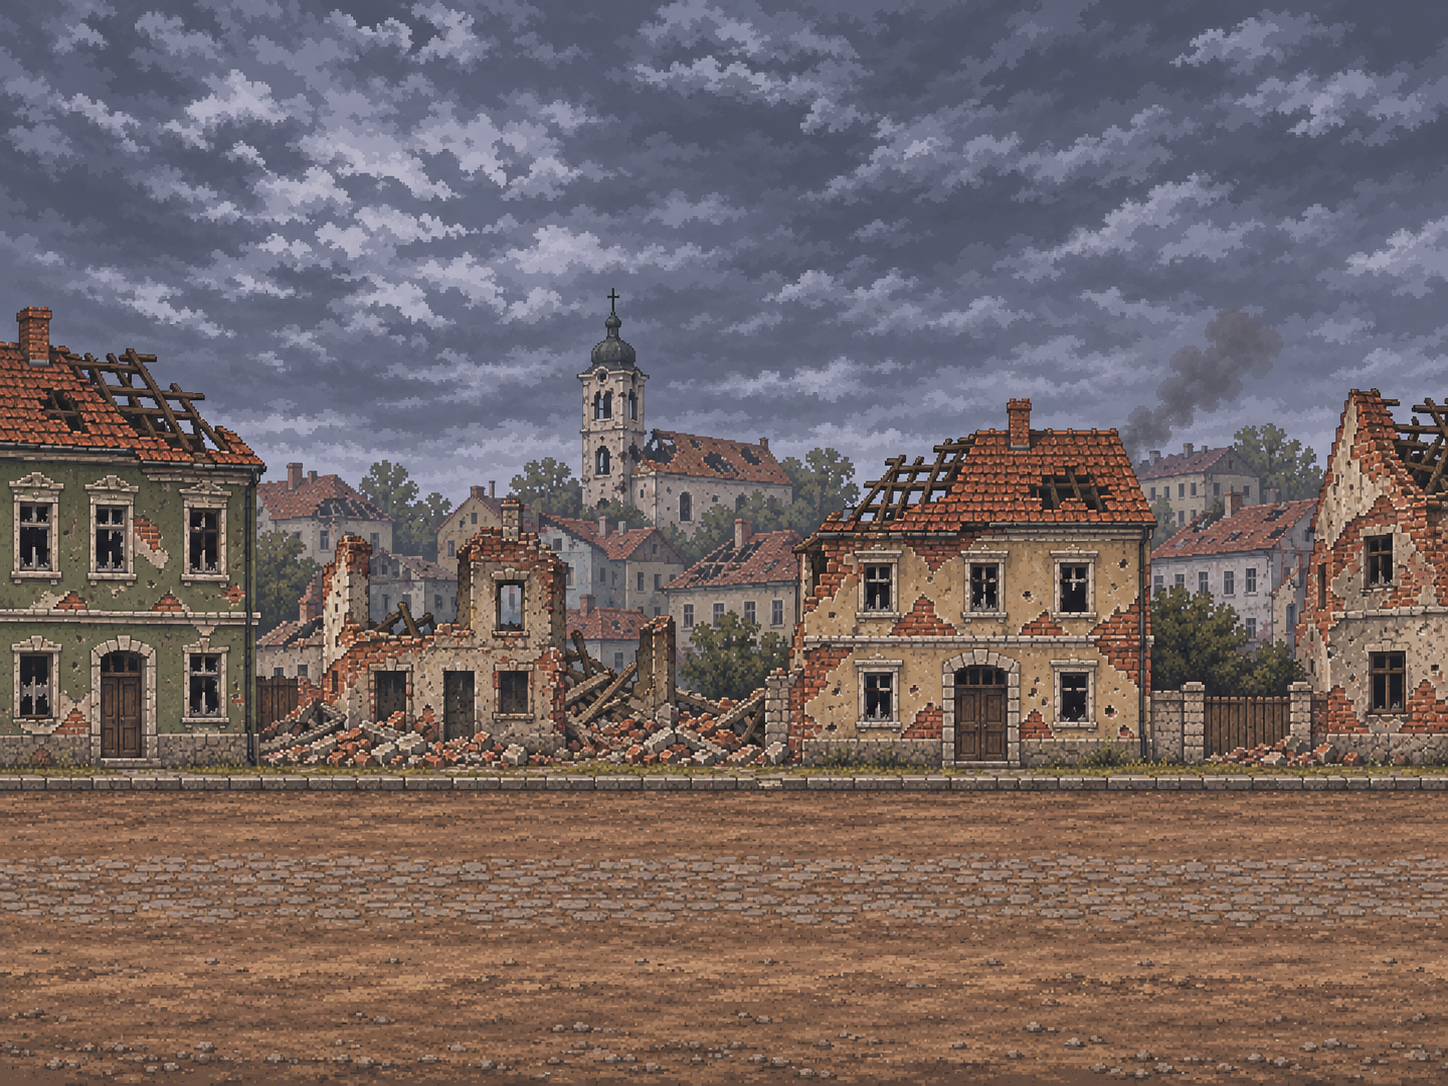
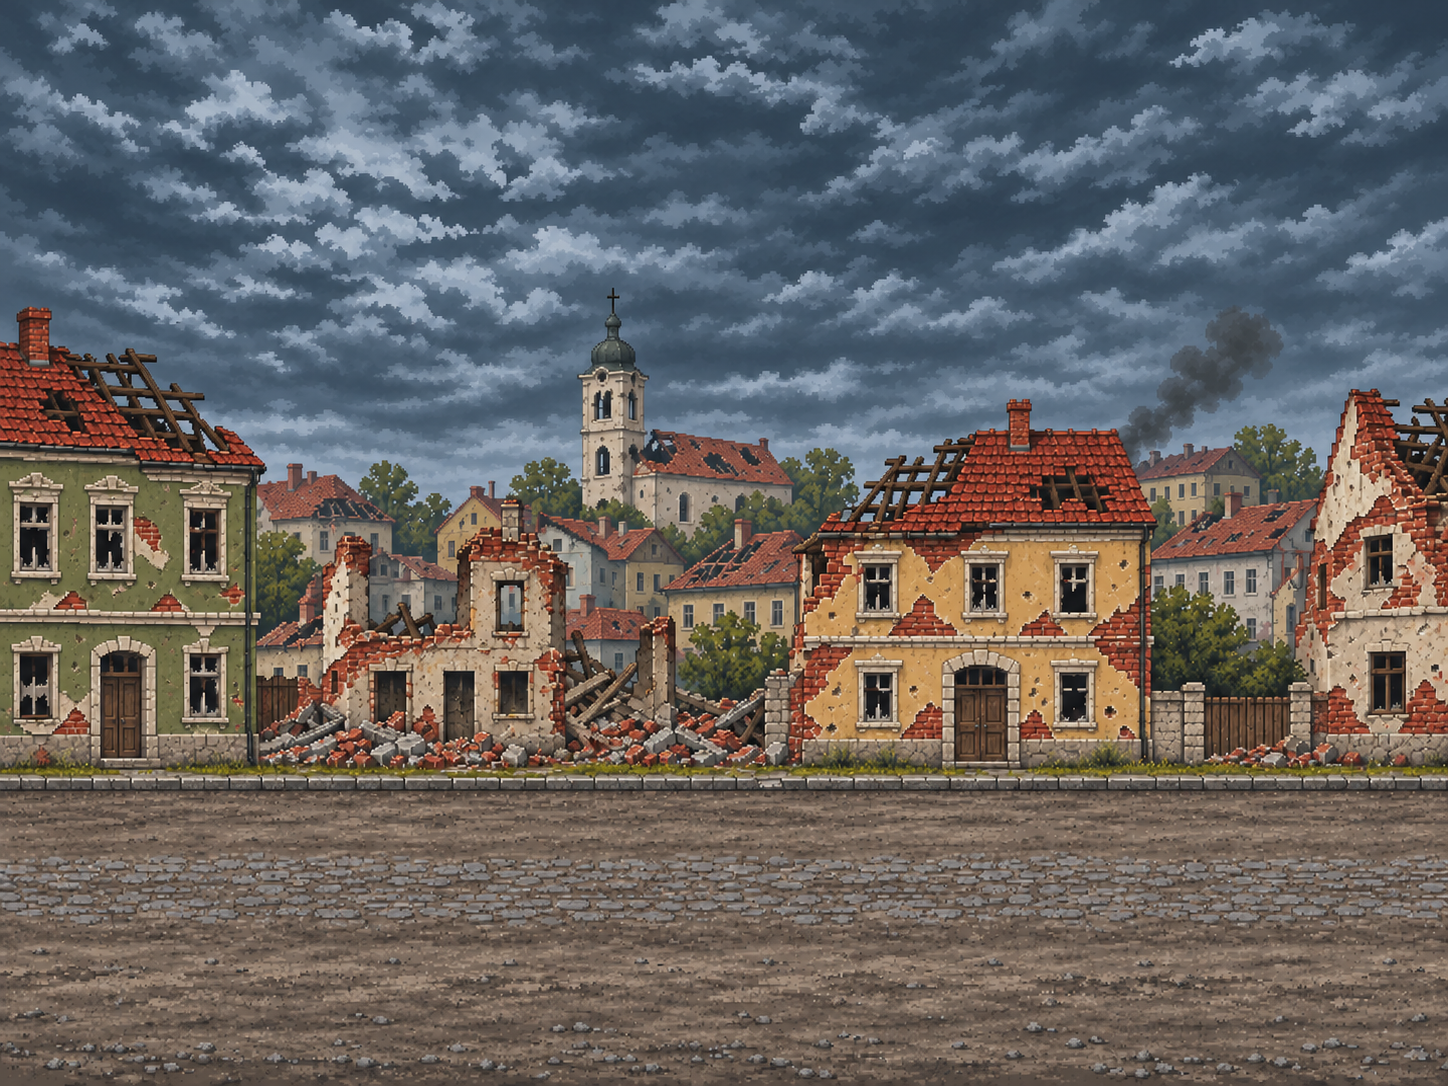
art

diff --git a/index.html b/index.html
@@ -32,12 +32,12 @@
 
         <div data-path="tenkici" class="menu-item simple-container js-start hide-on-mobile">
           <h3>Tank Duel (2P)</h3>
-          <img fetchpriority="high" alt="game screen" src="/assets/images/scenes/tenkici.webp">
+          <img fetchpriority="high" alt="Tank Duel gameplay" src="/assets/images/scenes/tenkici.webp?v=20261113">
         </div>
 
         <div data-path="bunker" class="menu-item simple-container js-start">
           <h3>Destroy the Bunker!</h3>
-          <img fetchpriority="high" alt="game screen" src="/assets/images/scenes/bunker.webp">
+          <img fetchpriority="high" alt="Destroy the Bunker gameplay" src="/assets/images/scenes/bunker.webp?v=20261113">
         </div>
 
         <div data-path="neretva" class="menu-item simple-container js-start">

diff --git a/scenes/tenkici/PozadinaGrada.js b/scenes/tenkici/PozadinaGrada.js
@@ -114,7 +114,10 @@ export default class PozadinaGrada {
   render(t = this.vreme) {
     const { ctx, canvas } = this
     if (!this.slika.complete || !this.slika.naturalWidth) return
+    ctx.save()
+    ctx.filter = 'sepia(20%)'
     ctx.drawImage(this.slika, 0, 0, canvas.width, canvas.height)
+    ctx.restore()
     this.crtez.clearRect(0, 0, sirina, visina)
     for (const profil of stuboviDima) this.gustiDim(t, profil)
     this.dim(t)

diff --git a/README.md b/README.md
@@ -25,12 +25,9 @@ The separate checks and how the tests work: [docs/TESTING.md](docs/TESTING.md).
 
 ## TODO
 
-- napravi backup granu od poslednjeg komita pre ai izmena
+- bunker: istraži online kako se pravi animirani sprite. pronađi u našem projektu klase koje to podržavaju. neka bombaš postane animirani sprite koji diše kada je idle.
+- tenkici: slika pozadine je ok, ali promeniti boje pozadine
 - vis: nađi bolji zvuk pucanja
-
-### Arhitektura
-
-- trenutno koristimo uglavnom nasleđivanje klasa, ali pokušavam da pređem na kompoziciju umesto nasleđivanja. jel ovo ispravan pristup: core/actor/prosirenja ? 
 
 ### Bagovi
 
